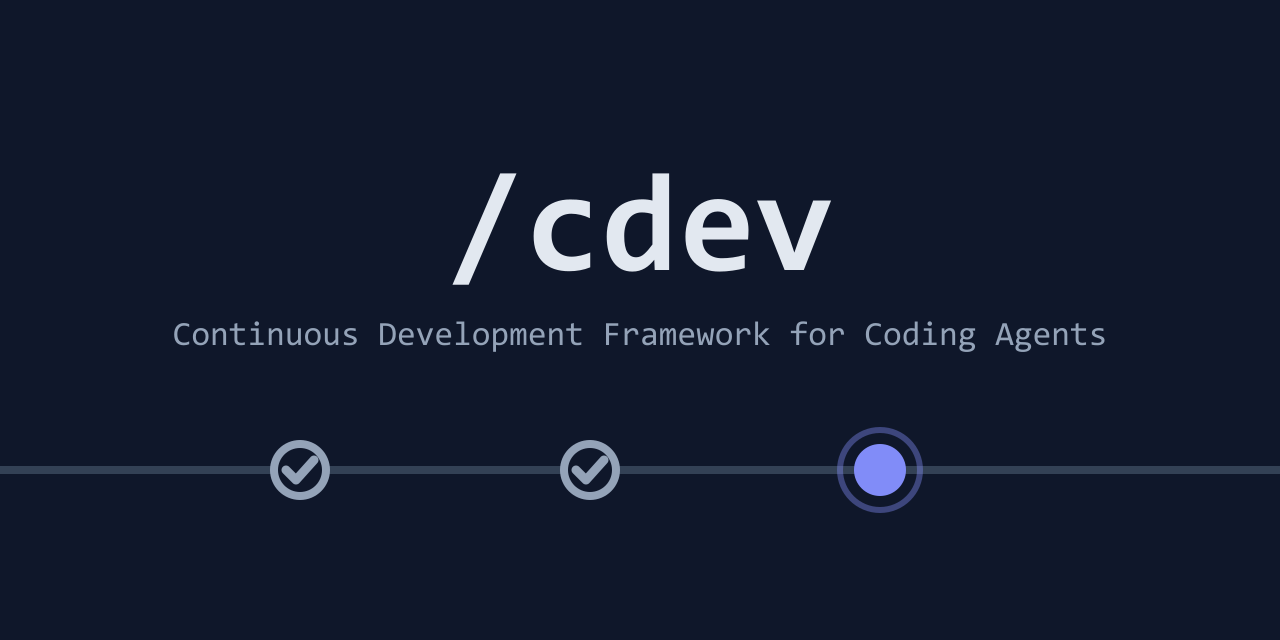
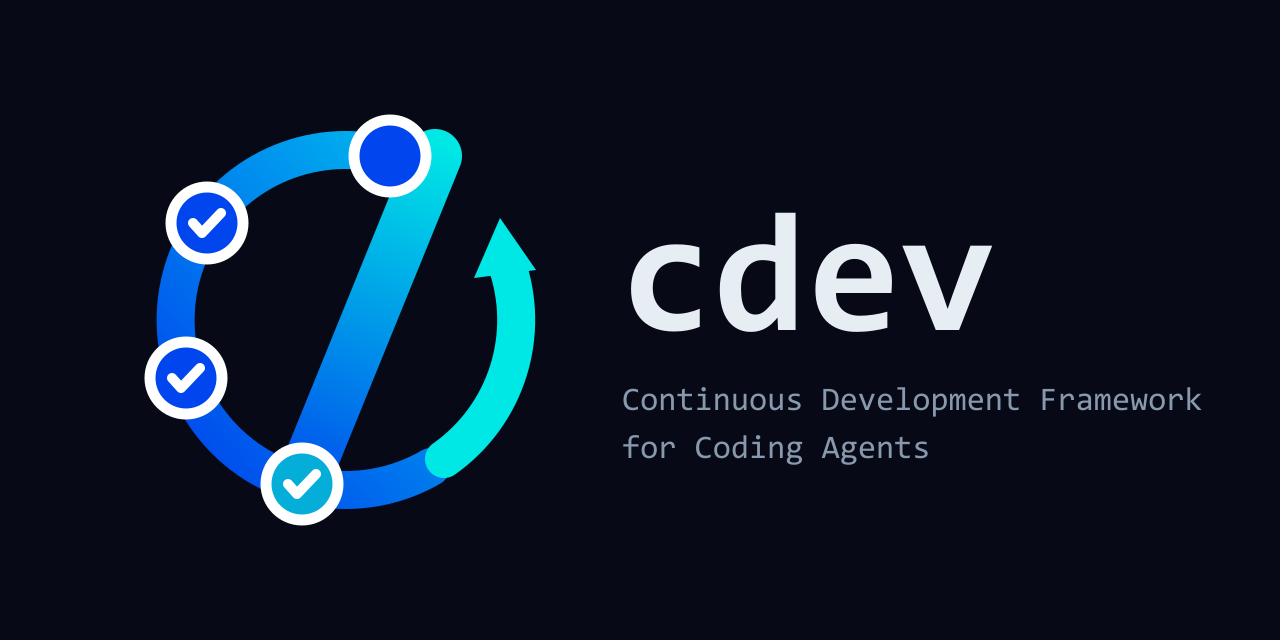
feat(s06-b01): visual identity, second iteration approved
Master icon supplied by the human; palette sampled from it
(#070A16 / #0045ED / #00E8E5) and its geometry rebuilt as flat
vectors: mark light/dark, wordmark lockups, social preview 1280x640.
First proposal deleted.

Claude-Session: https://claude.ai/code/session_017GbBJM2CLNH3qRRpsFUK7W

Changed region(s): [[0.0, 0.1562, 1.0, 0.8438], [0.8125, 0.5938, 0.9375, 0.6562]]

diff --git a/docs/develop/SPRINTS.md b/docs/develop/SPRINTS.md
@@ -167,16 +167,16 @@ not-run: issue-form render needs a signed-in glance — see the report.)*
 
 ---
 
-## Sprint 06 — Five-minute README `PENDING` (entry batch BLOCKED)
+## Sprint 06 — Five-minute README `ACTIVE`
 
 Source: strategy §6–§10, §21, §22 Phase 2.
 
-### B01 — Visual identity `BLOCKED`
+### B01 — Visual identity `DONE`
 
-*First proposal (wordmark light/dark + icon + social preview, indigo/slate, checkpoint line)
-drafted, rasterized and **rejected by the human** without replacement direction. Minimum human
-decision: state the visual direction (palette, typography, composition — or supply an asset);
-then B01 regenerates and the sprint unblocks. Drafts preserved in `assets/` (wip commit).*
+*Second iteration approved: the human supplied a master icon (`assets/icon.png`); its palette
+was sampled (#070A16/#0045ED/#00E8E5) and its geometry (loop + checks + arrow + slash)
+rebuilt as flat vectors — mark light/dark, wordmark lockups, social preview. First
+(indigo/slate) proposal rejected and deleted.*
 
 `assets/` with the wordmark SVG (`/cdev` + continuous line through verified checkpoints; no
 robots/brains/sparkles). Social-preview PNG rendered from it, left prepared — uploading is
